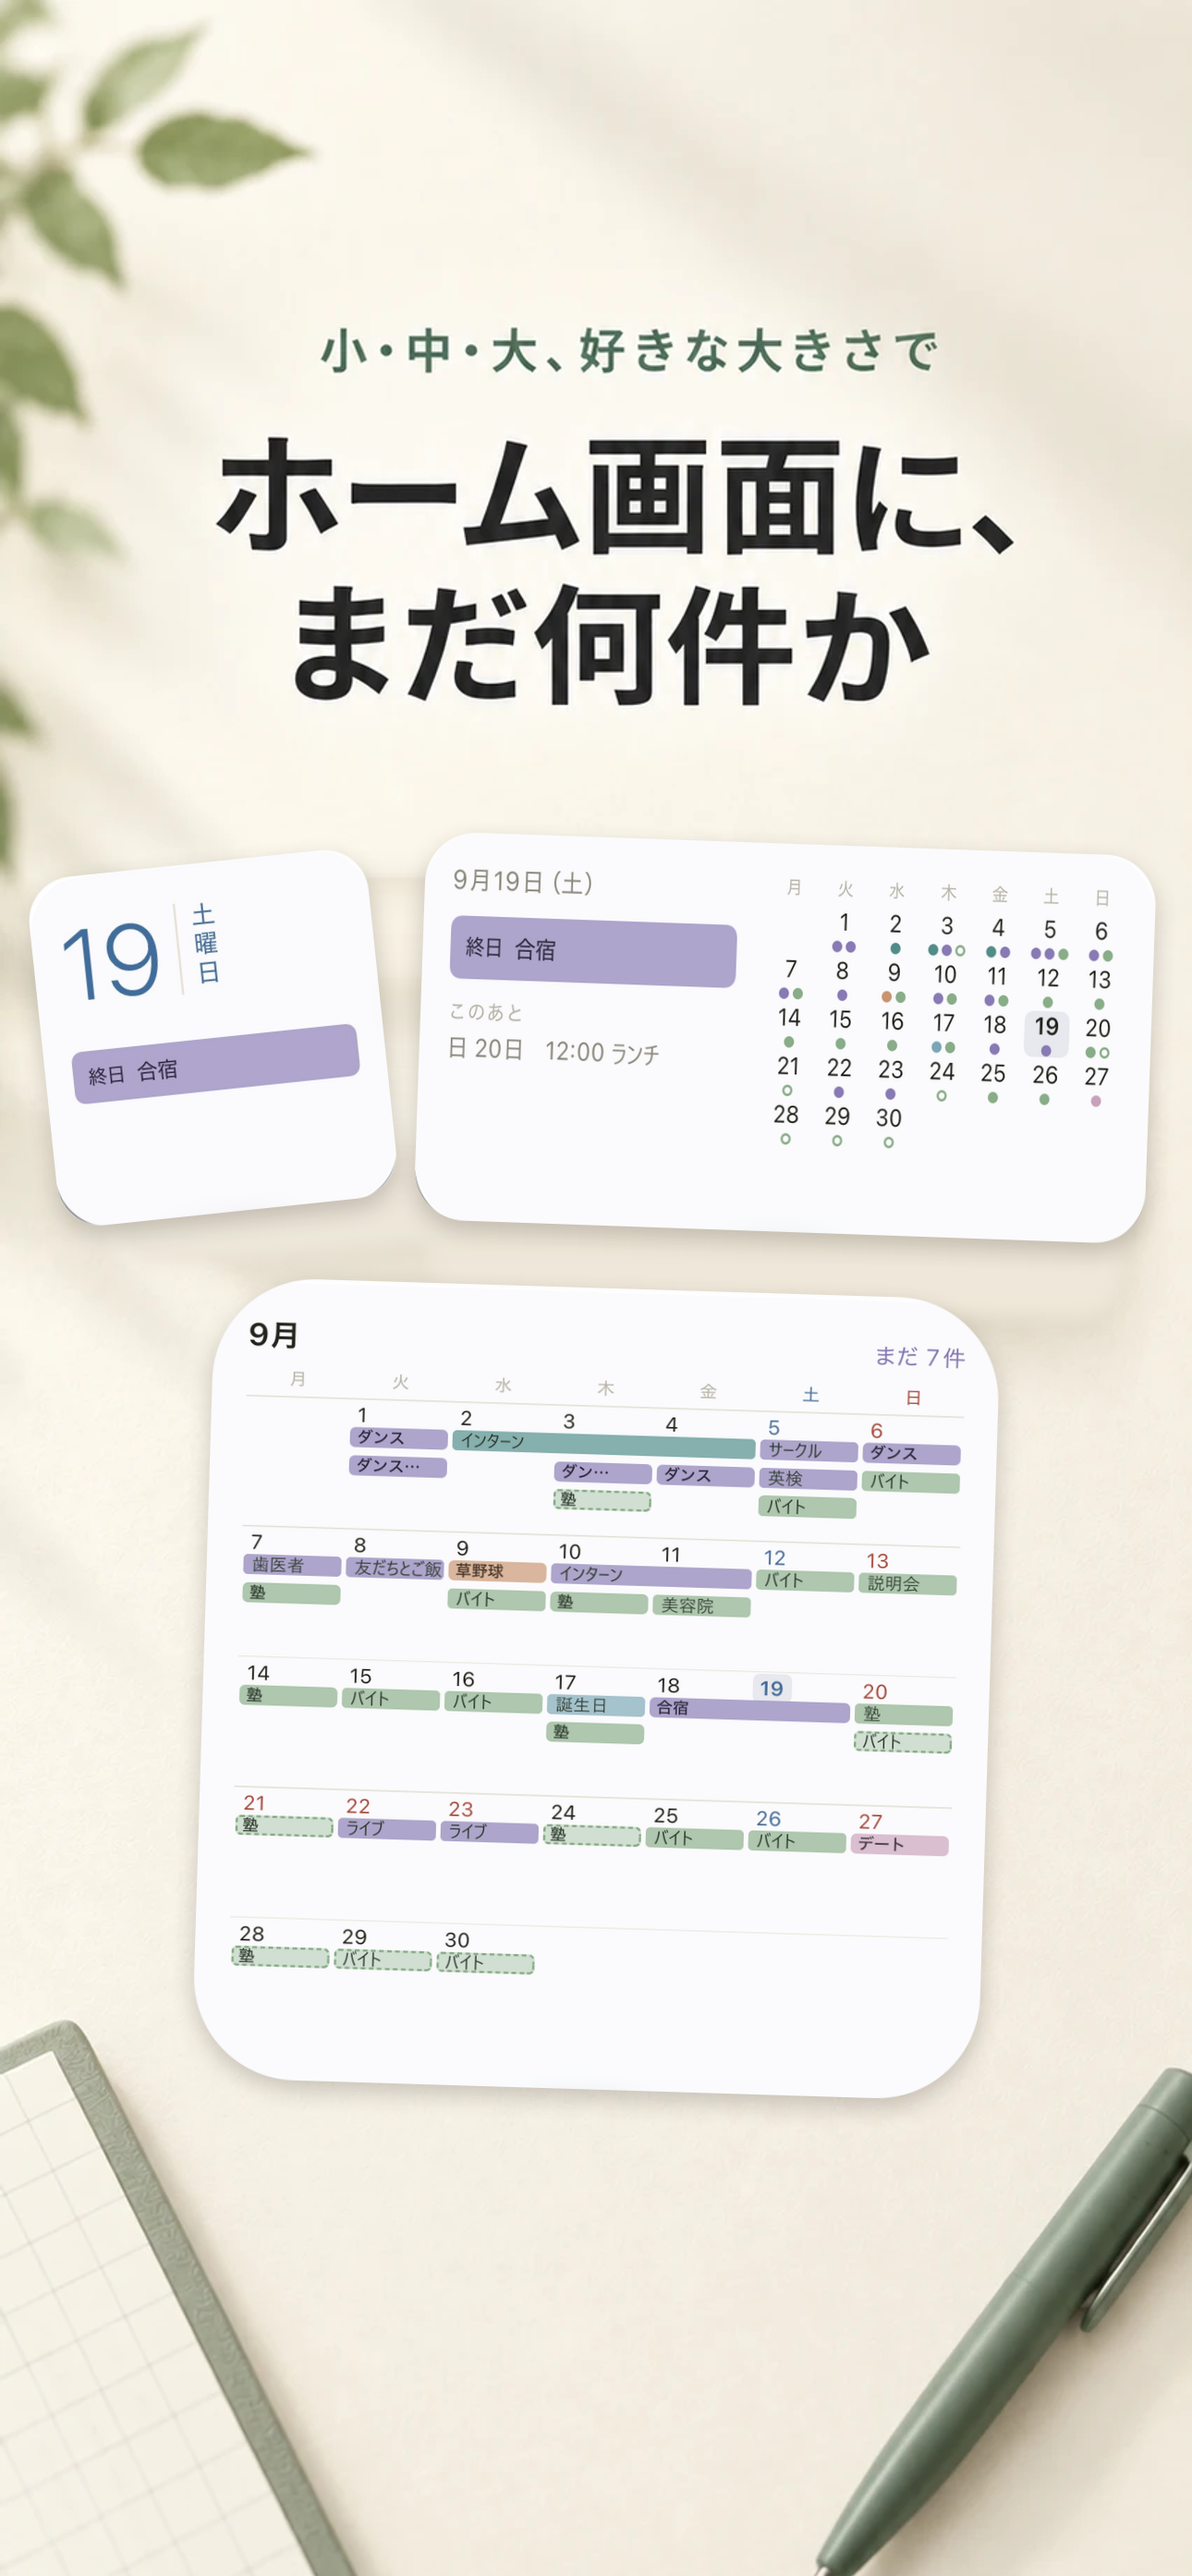
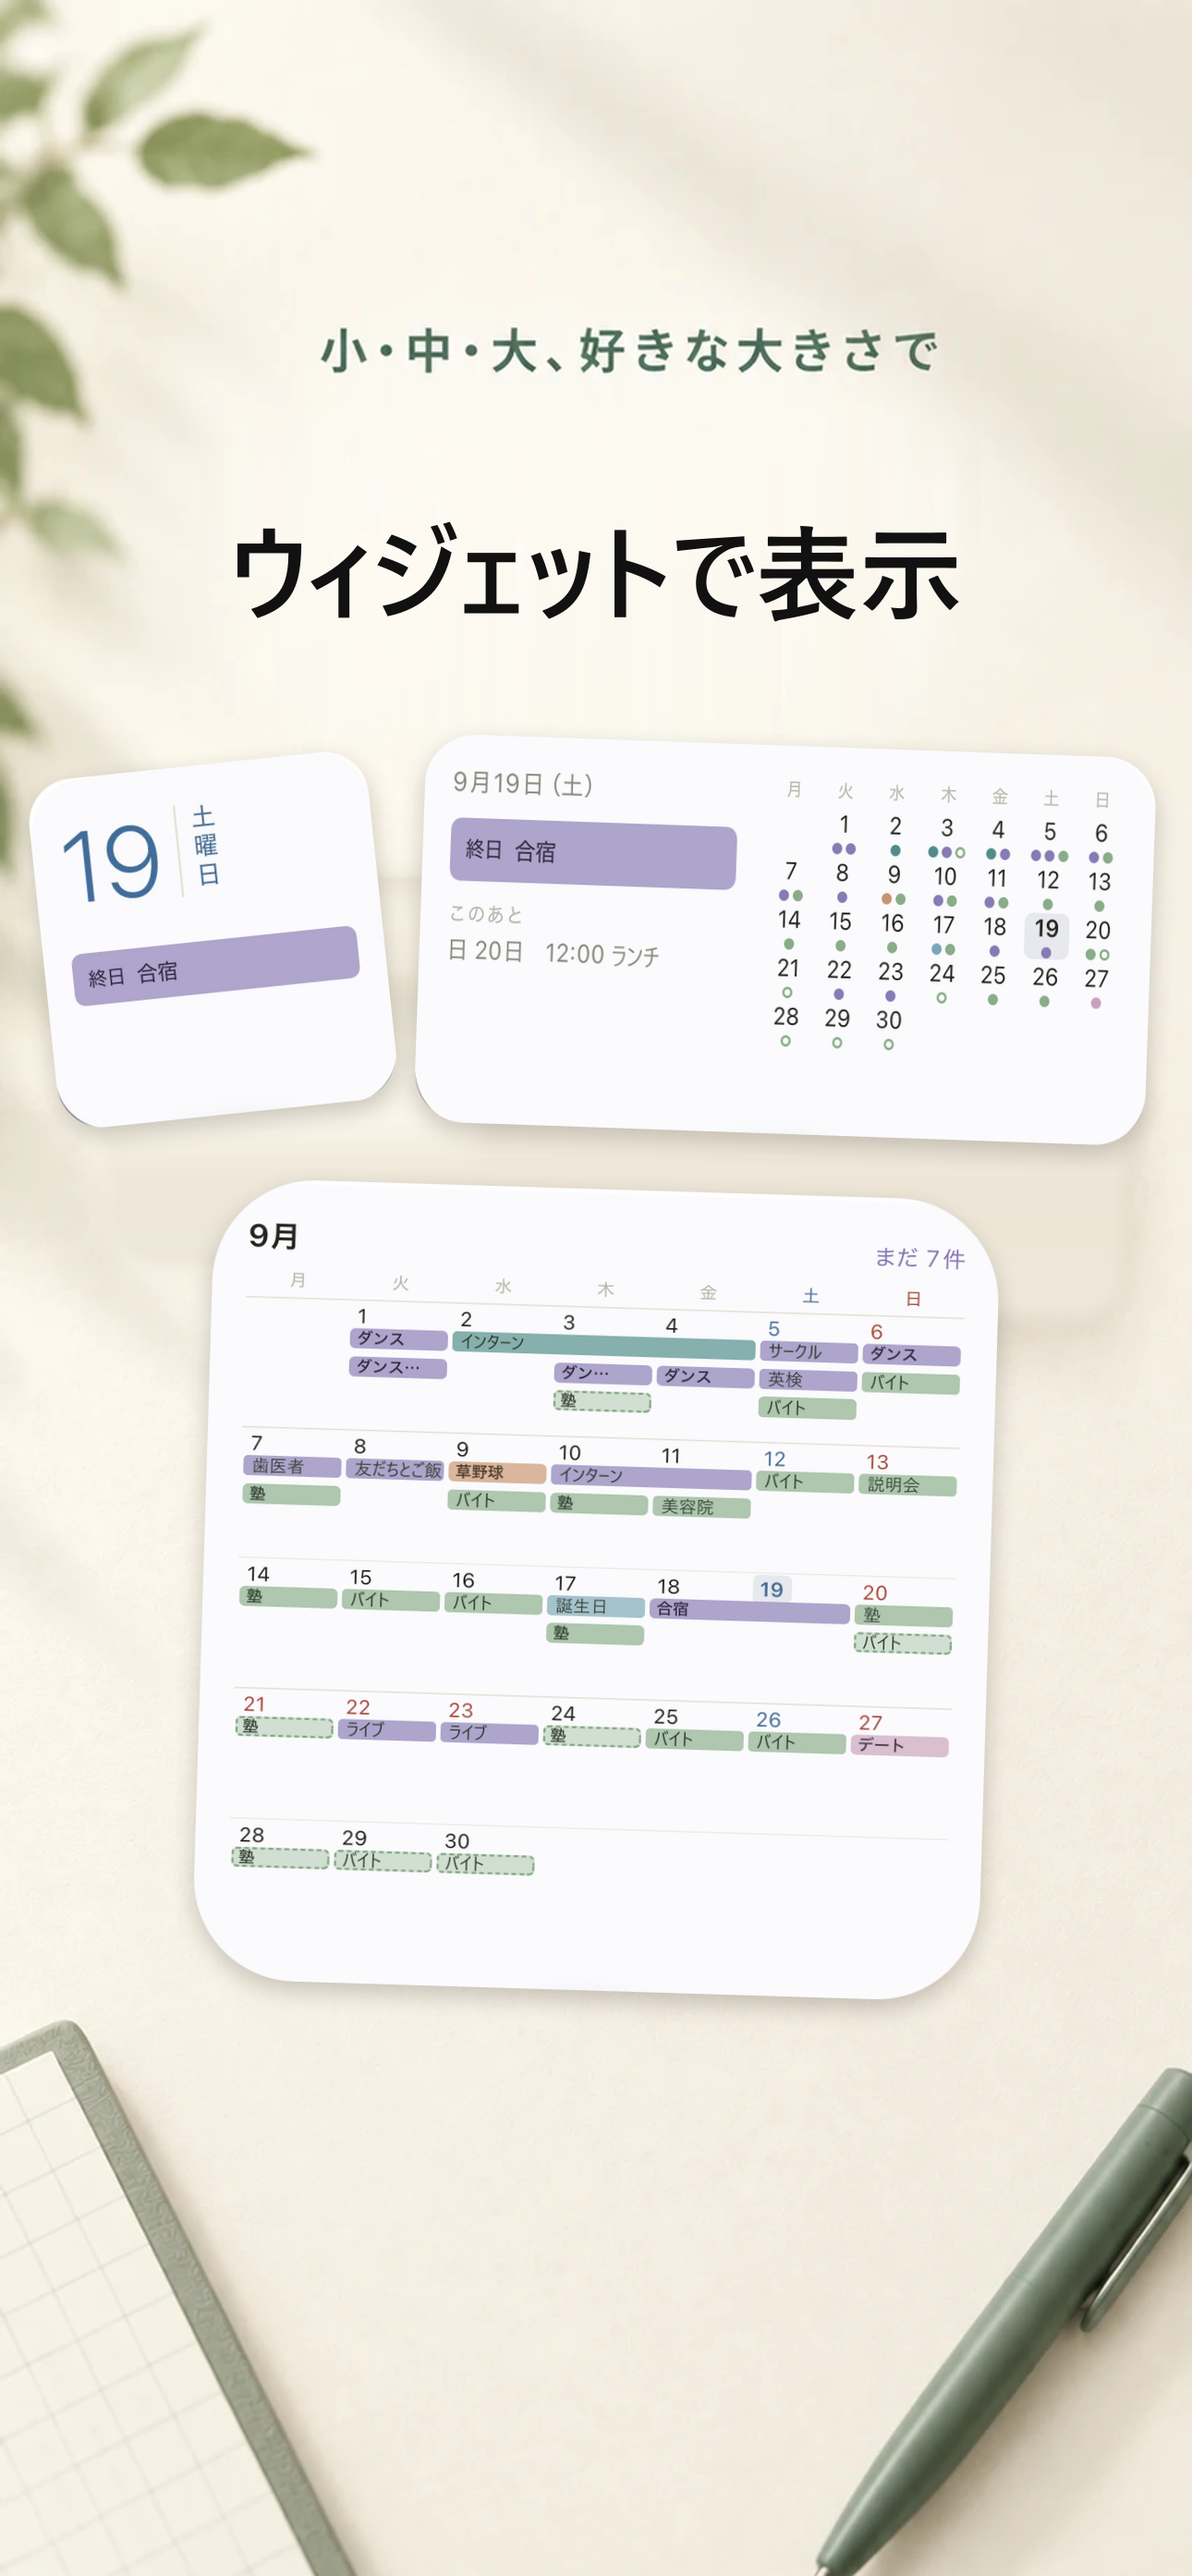
3枚目の見出しを「ウィジェットで表示」に。焼き込まれた文字を消して描き直す

Changed region(s): [[0.0, 0.1561, 0.9922, 0.8428]]

diff --git a/store-assets/sukuji/prompts.md b/store-assets/sukuji/prompts.md
@@ -53,6 +53,10 @@ and a solid green rounded pill with a white check mark on the right.
 ## 3 枚目　ホーム画面にも（ウィジェット）
 **大・中・小の3つを見せる版**（2026-09-19。こちらを本命にする）：
 
+見出しは絵に焼き込まれるが、`sukuji-fill.mjs` の `HEADLINE` で消して描き直している
+（「ホーム画面に、まだ何件か」は文として変だったので「ウィジェットで表示」に。2026-09-21）。
+次に描き直すときは、下の Headline も「ウィジェットで表示」にする。
+
 ```
 [共通のテイスト]
 Headline: 「ホーム画面に、まだ何件か」
